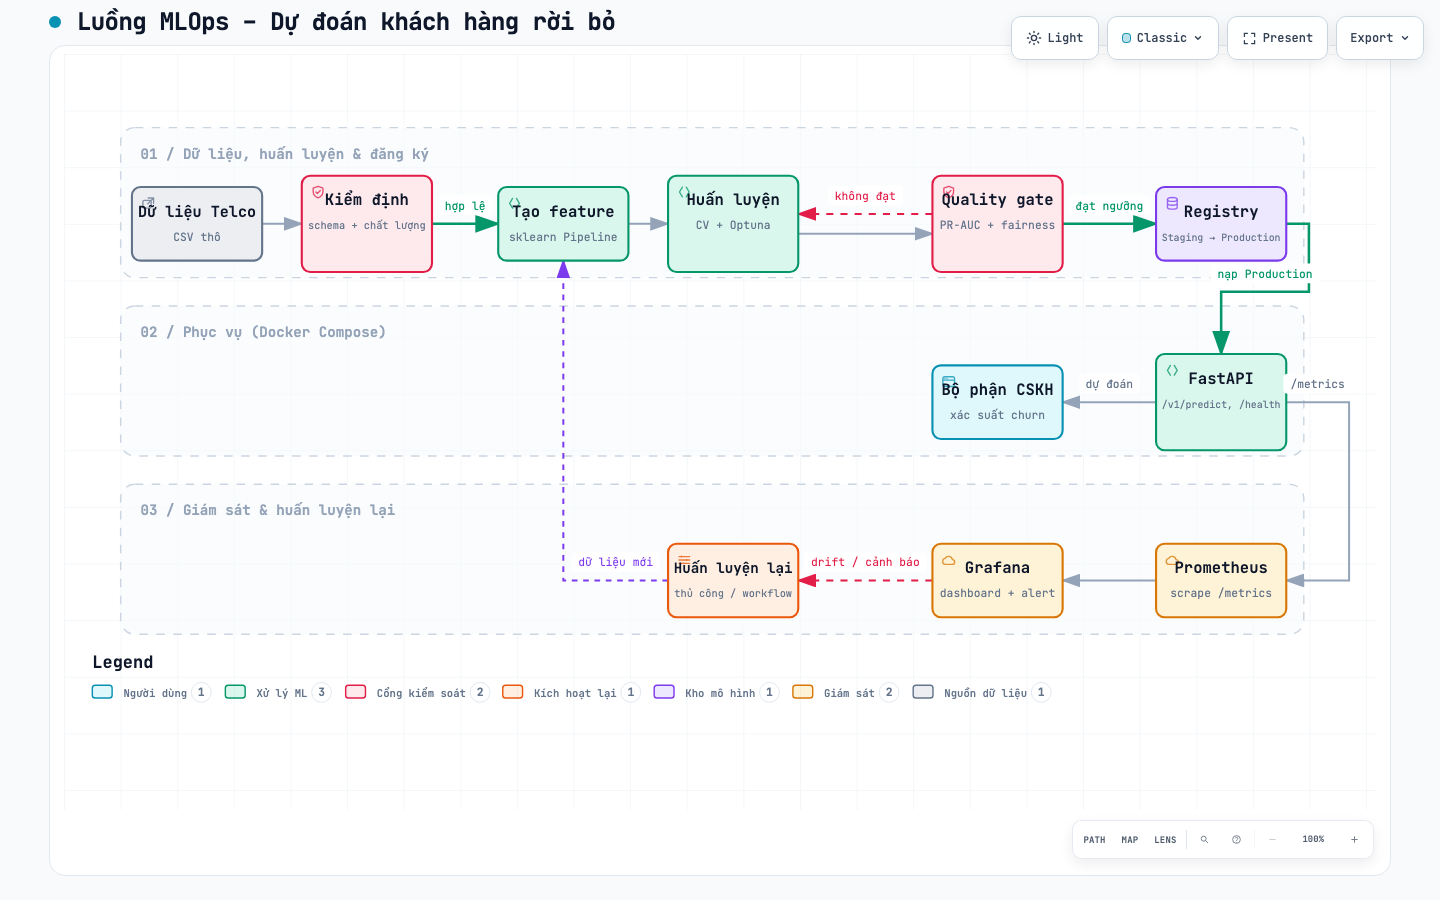
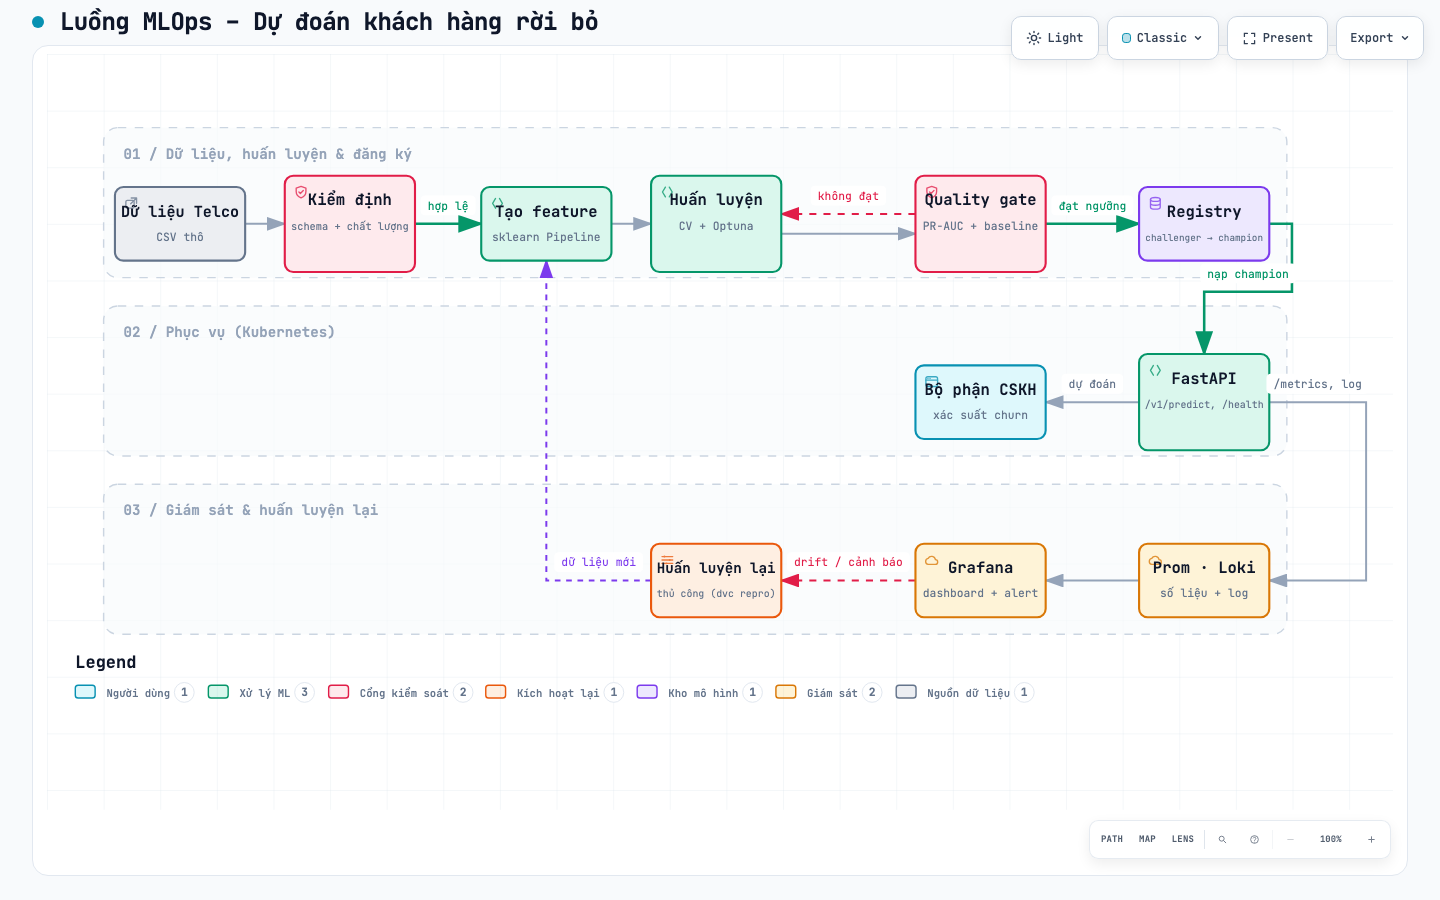
Docs: regenerate the MLOps flow diagram, add Grafana screenshots, refresh the README gap list
mlops-flow now shows the Kubernetes serving lane, the challenger -> champion registry, the gate without the
fairness claim (not part of the gate) and the log path to Loki. The README list of unfinished items drops
what is done (PSI drift, operations guide, tech-stack comparison) and adds what is not.

diff --git a/docs/mlops-flow.html b/docs/mlops-flow.html
@@ -5004,7 +5004,7 @@
     <!-- Main Diagram -->
     <div class="diagram-container" data-detail-level="read"
          data-preset-badge-editorial-plate="ARCHIFY / PLATE 04">
-      <svg viewBox="0 0 927 534" role="img" lang="en" aria-labelledby="archify-diagram-title archify-diagram-description" data-preset="classic" data-quality-profile="showcase">
+      <svg viewBox="0 0 951 534" role="img" lang="en" aria-labelledby="archify-diagram-title archify-diagram-description" data-preset="classic" data-quality-profile="showcase">
         <title id="archify-diagram-title">Luồng MLOps – Dự đoán khách hàng rời bỏ</title>
         <desc id="archify-diagram-description">A workflow diagram generated by Archify.</desc>
         <!-- Definitions -->
@@ -5034,7 +5034,7 @@
         <text x="54" y="74" class="t-dim" font-size="10" font-weight="600">01 / Dữ liệu, huấn luyện &amp; đăng ký</text>
 
         <rect data-graph-role="structural-frame" data-composition-frame-kind="lane" data-composition-frame-id="lane-1" x="40" y="178" width="836" height="106" rx="10" class="c-lane" stroke-width="1"/>
-        <text x="54" y="200" class="t-dim" font-size="10" font-weight="600">02 / Phục vụ (Docker Compose)</text>
+        <text x="54" y="200" class="t-dim" font-size="10" font-weight="600">02 / Phục vụ (Kubernetes)</text>
 
         <rect data-graph-role="structural-frame" data-composition-frame-kind="lane" data-composition-frame-id="lane-2" x="40" y="304" width="836" height="106" rx="10" class="c-lane" stroke-width="1"/>
         <text x="54" y="326" class="t-dim" font-size="10" font-weight="600">03 / Giám sát &amp; huấn luyện lại</text>
@@ -5047,14 +5047,14 @@
 
         <!-- Edge paths -->
         <path data-edge-from="api" data-edge-to="client" data-edge-label="dự đoán" data-edge-key="0" data-composition-points="771.6,246;705.6,246" d="M 771.6 246 L 705.6 246" class="a-default" stroke-width="1.4" marker-end="url(#arrowhead)"/>
-        <path data-edge-from="api" data-edge-to="prom" data-edge-label="/metrics" data-edge-key="1" data-composition-points="863.6,246;908.001,246;908.001,372;863.6,372" d="M 863.6 246 L 908.001 246 L 908.001 372 L 863.6 372" class="a-default" stroke-width="1.4" marker-end="url(#arrowhead)"/>
+        <path data-edge-from="api" data-edge-to="prom" data-edge-label="/metrics, log" data-edge-key="1" data-composition-points="863.6,246;932.001,246;932.001,372;863.6,372" d="M 863.6 246 L 932.001 246 L 932.001 372 L 863.6 372" class="a-default" stroke-width="1.4" marker-end="url(#arrowhead)"/>
         <path data-edge-from="features" data-edge-to="train" data-edge-key="2" data-composition-points="398.8,120;426.8,120" d="M 398.8 120 L 426.8 120" class="a-default" stroke-width="1.4" marker-end="url(#arrowhead)"/>
         <path data-edge-from="gate" data-edge-to="registry" data-edge-label="đạt ngưỡng" data-edge-key="3" data-composition-points="705.6,120;771.6,120" d="M 705.6 120 L 771.6 120" class="a-emphasis" stroke-width="1.8" marker-end="url(#arrowhead-emphasis)"/>
         <path data-edge-from="gate" data-edge-to="train" data-edge-label="không đạt" data-edge-key="4" data-composition-points="613.6,113;518.8,113" d="M 613.6 113 L 518.8 113" class="a-security" stroke-width="1.4" marker-end="url(#arrowhead-security)"/>
         <path data-edge-from="grafana" data-edge-to="retrain" data-edge-label="drift / cảnh báo" data-edge-key="5" data-composition-points="613.6,372;518.8,372" d="M 613.6 372 L 518.8 372" class="a-security" stroke-width="1.4" marker-end="url(#arrowhead-security)"/>
         <path data-edge-from="prom" data-edge-to="grafana" data-edge-key="6" data-composition-points="771.6,372;705.6,372" d="M 771.6 372 L 705.6 372" class="a-default" stroke-width="1.4" marker-end="url(#arrowhead)"/>
         <path data-edge-from="raw" data-edge-to="validate" data-edge-key="7" data-composition-points="140,120;168,120" d="M 140 120 L 168 120" class="a-default" stroke-width="1.4" marker-end="url(#arrowhead)"/>
-        <path data-edge-from="registry" data-edge-to="api" data-edge-label="nạp Production" data-edge-key="8" data-composition-points="863.6,120;879.6,120;879.6,168;817.6,168;817.6,212" d="M 863.6 120 L 879.6 120 L 879.6 168 L 817.6 168 L 817.6 212" class="a-emphasis" stroke-width="1.8" marker-end="url(#arrowhead-emphasis)"/>
+        <path data-edge-from="registry" data-edge-to="api" data-edge-label="nạp champion" data-edge-key="8" data-composition-points="863.6,120;879.6,120;879.6,168;817.6,168;817.6,212" d="M 863.6 120 L 879.6 120 L 879.6 168 L 817.6 168 L 817.6 212" class="a-emphasis" stroke-width="1.8" marker-end="url(#arrowhead-emphasis)"/>
         <path data-edge-from="retrain" data-edge-to="features" data-edge-label="dữ liệu mới" data-edge-key="9" data-composition-points="426.8,372;352.8,372;352.8,146" d="M 426.8 372 L 352.8 372 L 352.8 146" class="a-dashed" stroke-width="1.4" marker-end="url(#arrowhead-dashed)"/>
         <path data-edge-from="train" data-edge-to="gate" data-edge-key="10" data-composition-points="518.8,127;613.6,127" d="M 518.8 127 L 613.6 127" class="a-default" stroke-width="1.4" marker-end="url(#arrowhead)"/>
         <path data-edge-from="validate" data-edge-to="features" data-edge-label="hợp lệ" data-edge-key="11" data-composition-points="260,120;306.8,120" d="M 260 120 L 306.8 120" class="a-emphasis" stroke-width="1.8" marker-end="url(#arrowhead-emphasis)"/>
@@ -5108,8 +5108,8 @@
         <text data-detail="fine" x="472.8" y="142" class="t-backend" font-size="7" text-anchor="middle">XGBoost</text>
         </g>
 
-        <g id="node-gate" data-node-id="gate" data-node-label="Quality gate" tabindex="0" role="button" aria-label="Focus Quality gate, PR-AUC + fairness, Dữ liệu, huấn luyện &amp; đăng ký" aria-pressed="false" data-node-kind="security" data-node-sublabel="PR-AUC + fairness" data-node-tag="chặn" data-node-context="Dữ liệu, huấn luyện &amp; đăng ký">
-          <title>Quality gate · PR-AUC + fairness · Dữ liệu, huấn luyện &amp; đăng ký · chặn</title>
+        <g id="node-gate" data-node-id="gate" data-node-label="Quality gate" tabindex="0" role="button" aria-label="Focus Quality gate, PR-AUC + baseline, Dữ liệu, huấn luyện &amp; đăng ký" aria-pressed="false" data-node-kind="security" data-node-sublabel="PR-AUC + baseline" data-node-tag="chặn" data-node-context="Dữ liệu, huấn luyện &amp; đăng ký">
+          <title>Quality gate · PR-AUC + baseline · Dữ liệu, huấn luyện &amp; đăng ký · chặn</title>
           <rect x="613.6" y="86" width="92" height="68" rx="6" class="c-mask"/>
           <rect x="613.6" y="86" width="92" height="68" rx="6" class="c-security" stroke-width="1.5"/>
           <g aria-hidden="true" data-semantic-sigil="security" class="semantic-sigil s-security" transform="translate(619.6 92) scale(0.6875)">
@@ -5117,12 +5117,12 @@
             <path d="m5.8 8 1.5 1.5 3-3"/>
           </g>
           <text data-node-label="" data-detail-anchor="" x="659.6" y="107" class="t-primary" font-size="11" font-weight="600" text-anchor="middle">Quality gate</text>
-          <text data-detail="context" x="659.6" y="124" class="t-muted" font-size="8" text-anchor="middle">PR-AUC + fairness</text>
+          <text data-detail="context" x="659.6" y="124" class="t-muted" font-size="8" text-anchor="middle">PR-AUC + baseline</text>
         <text data-detail="fine" x="659.6" y="142" class="t-security" font-size="7" text-anchor="middle">chặn</text>
         </g>
 
-        <g id="node-registry" data-node-id="registry" data-node-label="Registry" tabindex="0" role="button" aria-label="Focus Registry, Staging → Production, Dữ liệu, huấn luyện &amp; đăng ký" aria-pressed="false" data-node-kind="database" data-node-sublabel="Staging → Production" data-node-context="Dữ liệu, huấn luyện &amp; đăng ký">
-          <title>Registry · Staging → Production · Dữ liệu, huấn luyện &amp; đăng ký</title>
+        <g id="node-registry" data-node-id="registry" data-node-label="Registry" tabindex="0" role="button" aria-label="Focus Registry, challenger → champion, Dữ liệu, huấn luyện &amp; đăng ký" aria-pressed="false" data-node-kind="database" data-node-sublabel="challenger → champion" data-node-context="Dữ liệu, huấn luyện &amp; đăng ký">
+          <title>Registry · challenger → champion · Dữ liệu, huấn luyện &amp; đăng ký</title>
           <rect x="771.6" y="94" width="92" height="52" rx="6" class="c-mask"/>
           <rect x="771.6" y="94" width="92" height="52" rx="6" class="c-database" stroke-width="1.5"/>
           <g aria-hidden="true" data-semantic-sigil="database" class="semantic-sigil s-database" transform="translate(777.6 100) scale(0.6875)">
@@ -5130,11 +5130,11 @@
             <path d="M3 4v8c0 1.1 2.2 2 5 2s5-.9 5-2V4M3 8c0 1.1 2.2 2 5 2s5-.9 5-2"/>
           </g>
           <text data-node-label="" data-detail-anchor="" x="817.6" y="115" class="t-primary" font-size="11" font-weight="600" text-anchor="middle">Registry</text>
-          <text data-detail="context" x="817.6" y="132" class="t-muted" font-size="7" text-anchor="middle">Staging → Production</text>
+          <text data-detail="context" x="817.6" y="132" class="t-muted" font-size="6.6" text-anchor="middle">challenger → champion</text>
         </g>
 
-        <g id="node-client" data-node-id="client" data-node-label="Bộ phận CSKH" tabindex="0" role="button" aria-label="Focus Bộ phận CSKH, xác suất churn, Phục vụ (Docker Compose)" aria-pressed="false" data-node-kind="frontend" data-node-sublabel="xác suất churn" data-node-context="Phục vụ (Docker Compose)">
-          <title>Bộ phận CSKH · xác suất churn · Phục vụ (Docker Compose)</title>
+        <g id="node-client" data-node-id="client" data-node-label="Bộ phận CSKH" tabindex="0" role="button" aria-label="Focus Bộ phận CSKH, xác suất churn, Phục vụ (Kubernetes)" aria-pressed="false" data-node-kind="frontend" data-node-sublabel="xác suất churn" data-node-context="Phục vụ (Kubernetes)">
+          <title>Bộ phận CSKH · xác suất churn · Phục vụ (Kubernetes)</title>
           <rect x="613.6" y="220" width="92" height="52" rx="6" class="c-mask"/>
           <rect x="613.6" y="220" width="92" height="52" rx="6" class="c-frontend" stroke-width="1.5"/>
           <g aria-hidden="true" data-semantic-sigil="frontend" class="semantic-sigil s-frontend" transform="translate(619.6 226) scale(0.6875)">
@@ -5147,8 +5147,8 @@
           <text data-detail="context" x="659.6" y="258" class="t-muted" font-size="8" text-anchor="middle">xác suất churn</text>
         </g>
 
-        <g id="node-api" data-node-id="api" data-node-label="FastAPI" tabindex="0" role="button" aria-label="Focus FastAPI, /v1/predict, /health, Phục vụ (Docker Compose)" aria-pressed="false" data-node-kind="backend" data-node-sublabel="/v1/predict, /health" data-node-tag="Docker" data-node-context="Phục vụ (Docker Compose)">
-          <title>FastAPI · /v1/predict, /health · Phục vụ (Docker Compose) · Docker</title>
+        <g id="node-api" data-node-id="api" data-node-label="FastAPI" tabindex="0" role="button" aria-label="Focus FastAPI, /v1/predict, /health, Phục vụ (Kubernetes)" aria-pressed="false" data-node-kind="backend" data-node-sublabel="/v1/predict, /health" data-node-tag="K8s" data-node-context="Phục vụ (Kubernetes)">
+          <title>FastAPI · /v1/predict, /health · Phục vụ (Kubernetes) · K8s</title>
           <rect x="771.6" y="212" width="92" height="68" rx="6" class="c-mask"/>
           <rect x="771.6" y="212" width="92" height="68" rx="6" class="c-backend" stroke-width="1.5"/>
           <g aria-hidden="true" data-semantic-sigil="backend" class="semantic-sigil s-backend" transform="translate(777.6 218) scale(0.6875)">
@@ -5156,11 +5156,11 @@
           </g>
           <text data-node-label="" data-detail-anchor="" x="817.6" y="233" class="t-primary" font-size="11" font-weight="600" text-anchor="middle">FastAPI</text>
           <text data-detail="context" x="817.6" y="250" class="t-muted" font-size="7" text-anchor="middle">/v1/predict, /health</text>
-        <text data-detail="fine" x="817.6" y="268" class="t-backend" font-size="7" text-anchor="middle">Docker</text>
+        <text data-detail="fine" x="817.6" y="268" class="t-backend" font-size="7" text-anchor="middle">K8s</text>
         </g>
 
-        <g id="node-retrain" data-node-id="retrain" data-node-label="Huấn luyện lại" tabindex="0" role="button" aria-label="Focus Huấn luyện lại, thủ công / workflow, Giám sát &amp; huấn luyện lại" aria-pressed="false" data-node-kind="messagebus" data-node-sublabel="thủ công / workflow" data-node-context="Giám sát &amp; huấn luyện lại">
-          <title>Huấn luyện lại · thủ công / workflow · Giám sát &amp; huấn luyện lại</title>
+        <g id="node-retrain" data-node-id="retrain" data-node-label="Huấn luyện lại" tabindex="0" role="button" aria-label="Focus Huấn luyện lại, thủ công (dvc repro), Giám sát &amp; huấn luyện lại" aria-pressed="false" data-node-kind="messagebus" data-node-sublabel="thủ công (dvc repro)" data-node-context="Giám sát &amp; huấn luyện lại">
+          <title>Huấn luyện lại · thủ công (dvc repro) · Giám sát &amp; huấn luyện lại</title>
           <rect x="426.8" y="346" width="92" height="52" rx="6" class="c-mask"/>
           <rect x="426.8" y="346" width="92" height="52" rx="6" class="c-messagebus" stroke-width="1.5"/>
           <g aria-hidden="true" data-semantic-sigil="messagebus" class="semantic-sigil s-messagebus" transform="translate(432.8 352) scale(0.6875)">
@@ -5170,7 +5170,7 @@
             <circle cx="7" cy="11.5" r="1" class="sigil-fill"/>
           </g>
           <text data-node-label="" data-detail-anchor="" x="472.8" y="367" class="t-primary" font-size="10" font-weight="600" text-anchor="middle">Huấn luyện lại</text>
-          <text data-detail="context" x="472.8" y="384" class="t-muted" font-size="7.3" text-anchor="middle">thủ công / workflow</text>
+          <text data-detail="context" x="472.8" y="384" class="t-muted" font-size="7" text-anchor="middle">thủ công (dvc repro)</text>
         </g>
 
         <g id="node-grafana" data-node-id="grafana" data-node-label="Grafana" tabindex="0" role="button" aria-label="Focus Grafana, dashboard + alert, Giám sát &amp; huấn luyện lại" aria-pressed="false" data-node-kind="cloud" data-node-sublabel="dashboard + alert" data-node-context="Giám sát &amp; huấn luyện lại">
@@ -5184,15 +5184,15 @@
           <text data-detail="context" x="659.6" y="384" class="t-muted" font-size="8" text-anchor="middle">dashboard + alert</text>
         </g>
 
-        <g id="node-prom" data-node-id="prom" data-node-label="Prometheus" tabindex="0" role="button" aria-label="Focus Prometheus, scrape /metrics, Giám sát &amp; huấn luyện lại" aria-pressed="false" data-node-kind="cloud" data-node-sublabel="scrape /metrics" data-node-context="Giám sát &amp; huấn luyện lại">
-          <title>Prometheus · scrape /metrics · Giám sát &amp; huấn luyện lại</title>
+        <g id="node-prom" data-node-id="prom" data-node-label="Prom · Loki" tabindex="0" role="button" aria-label="Focus Prom · Loki, số liệu + log, Giám sát &amp; huấn luyện lại" aria-pressed="false" data-node-kind="cloud" data-node-sublabel="số liệu + log" data-node-context="Giám sát &amp; huấn luyện lại">
+          <title>Prom · Loki · số liệu + log · Giám sát &amp; huấn luyện lại</title>
           <rect x="771.6" y="346" width="92" height="52" rx="6" class="c-mask"/>
           <rect x="771.6" y="346" width="92" height="52" rx="6" class="c-cloud" stroke-width="1.5"/>
           <g aria-hidden="true" data-semantic-sigil="cloud" class="semantic-sigil s-cloud" transform="translate(777.6 352) scale(0.6875)">
             <path d="M4.3 12.5h7.3a2.4 2.4 0 0 0 .2-4.8 4 4 0 0 0-7.5-1.3A3.1 3.1 0 0 0 4.3 12.5Z"/>
           </g>
-          <text data-node-label="" data-detail-anchor="" x="817.6" y="367" class="t-primary" font-size="11" font-weight="600" text-anchor="middle">Prometheus</text>
-          <text data-detail="context" x="817.6" y="384" class="t-muted" font-size="8" text-anchor="middle">scrape /metrics</text>
+          <text data-node-label="" data-detail-anchor="" x="817.6" y="367" class="t-primary" font-size="11" font-weight="600" text-anchor="middle">Prom · Loki</text>
+          <text data-detail="context" x="817.6" y="384" class="t-muted" font-size="8" text-anchor="middle">số liệu + log</text>
         </g>
 
         <!-- Edge labels -->
@@ -5200,9 +5200,9 @@
           <rect x="716.8000000000001" y="226" width="43.6" height="14" rx="3" class="c-mask"/>
           <text x="738.6" y="236" class="t-muted" font-size="8" text-anchor="middle">dự đoán</text>
         </g>
-        <g data-detail="context" data-edge-from="api" data-edge-to="prom" data-edge-label="/metrics" data-edge-key="1">
-          <rect x="861.6005" y="226" width="48.4" height="14" rx="3" class="c-mask"/>
-          <text x="885.8005" y="236" class="t-muted" font-size="8" text-anchor="middle">/metrics</text>
+        <g data-detail="context" data-edge-from="api" data-edge-to="prom" data-edge-label="/metrics, log" data-edge-key="1">
+          <rect x="861.6005" y="226" width="72.4" height="14" rx="3" class="c-mask"/>
+          <text x="897.8005" y="236" class="t-muted" font-size="8" text-anchor="middle">/metrics, log</text>
         </g>
 
         <g data-detail="context" data-edge-from="gate" data-edge-to="registry" data-edge-label="đạt ngưỡng" data-edge-key="3">
@@ -5219,9 +5219,9 @@
         </g>
 
 
-        <g data-detail="context" data-edge-from="registry" data-edge-to="api" data-edge-label="nạp Production" data-edge-key="8">
-          <rect x="810" y="148" width="77.2" height="14" rx="3" class="c-mask"/>
-          <text x="848.6" y="158" class="t-backend" font-size="8" text-anchor="middle">nạp Production</text>
+        <g data-detail="context" data-edge-from="registry" data-edge-to="api" data-edge-label="nạp champion" data-edge-key="8">
+          <rect x="814.8000000000001" y="148" width="67.6" height="14" rx="3" class="c-mask"/>
+          <text x="848.6" y="158" class="t-backend" font-size="8" text-anchor="middle">nạp champion</text>
         </g>
         <g data-detail="context" data-edge-from="retrain" data-edge-to="features" data-edge-label="dữ liệu mới" data-edge-key="9">
           <rect x="358.40000000000003" y="352" width="62.8" height="14" rx="3" class="c-mask"/>

diff --git a/README.md b/README.md
@@ -155,6 +155,8 @@ Chạy trong cụm Kubernetes, cấu hình trong [`k8s/monitoring/`](k8s/monitor
 | Alloy | Thu log của mọi pod trong namespace `churn` qua Kubernetes API, tách mức log và request id của API, đẩy sang Loki | nội bộ |
 | Grafana | 4 dashboard: **Churn: API**, **Churn: Mô hình**, **Churn: So sánh phiên bản**, **Churn: Log** | `/grafana/` |
 
+Ảnh chụp dashboard trên cụm thật: [Churn: API](docs/images/grafana-churn-api.jpg) và [Churn: Log](docs/images/grafana-churn-log.jpg).
+
 Số liệu của API: `churn_admin_actions_total` (duyệt, khôi phục theo kết quả), `churn_requests_total`, `churn_request_latency_seconds` (cả hai có nhãn `model_version`), `churn_predictions_total`, `churn_probability`, `churn_model_info`, `churn_model_loaded`, `churn_model_changes_total`, `churn_unknown_category_total`, `churn_feature_values_total` và `churn_feature_baseline_share` (drift đầu vào, xem bên dưới), cùng số liệu tiến trình (`process_cpu_seconds_total`, `process_resident_memory_bytes`).
 
 Luật cảnh báo (`k8s/monitoring/prometheus/alerts.yml`, được kiểm thử bằng `promtool test rules` trong CI). Ngưỡng là điểm khởi đầu của dự án, chưa đo từ dữ liệu thật:
@@ -208,13 +210,14 @@ Pipeline huấn luyện đã chạy end-to-end (PR-AUC test 0.663, model `churn-
 
 Chưa hoàn thành (theo yêu cầu đề bài):
 
-- [ ] Kênh gửi cảnh báo ra ngoài: đã có Telegram (tùy chọn, xem mục Giám sát); chưa có Slack hay email
-- [ ] Drift theo từng feature (PSI) và nhật ký dự đoán
 - [ ] Endpoint `/v1/predict/batch` (schema chặt và ví dụ OpenAPI đã có cho `/v1/predict`)
 - [ ] Giải thích mô hình (SHAP, LIME)
-- [ ] Phân tích fairness và giảm thiểu thiên lệch
-- [ ] Tài liệu privacy, ethics, hướng dẫn vận hành, so sánh lựa chọn công nghệ
-- [ ] Bước deploy trong CI
+- [ ] Giảm thiểu thiên lệch (fairness): đã đo chênh lệch tỷ lệ được chọn theo `gender` và `SeniorCitizen`, chưa có biện pháp giảm
+- [ ] Tài liệu privacy và ethics
+- [ ] Nhật ký dự đoán (để đo độ chính xác thật và chạy A/B); drift đầu vào theo PSI đã có
+- [ ] Deploy tự động trong CI: hiện là workflow bấm tay trên self-hosted runner
+- [ ] Kênh cảnh báo Slack hoặc email (Telegram đã có, tùy chọn)
+- [ ] Giám sát MLflow, MinIO, Postgres; thu log của các dịch vụ trong Compose; cảnh báo dựa trên log
 
 ## Xử lý sự cố
 
